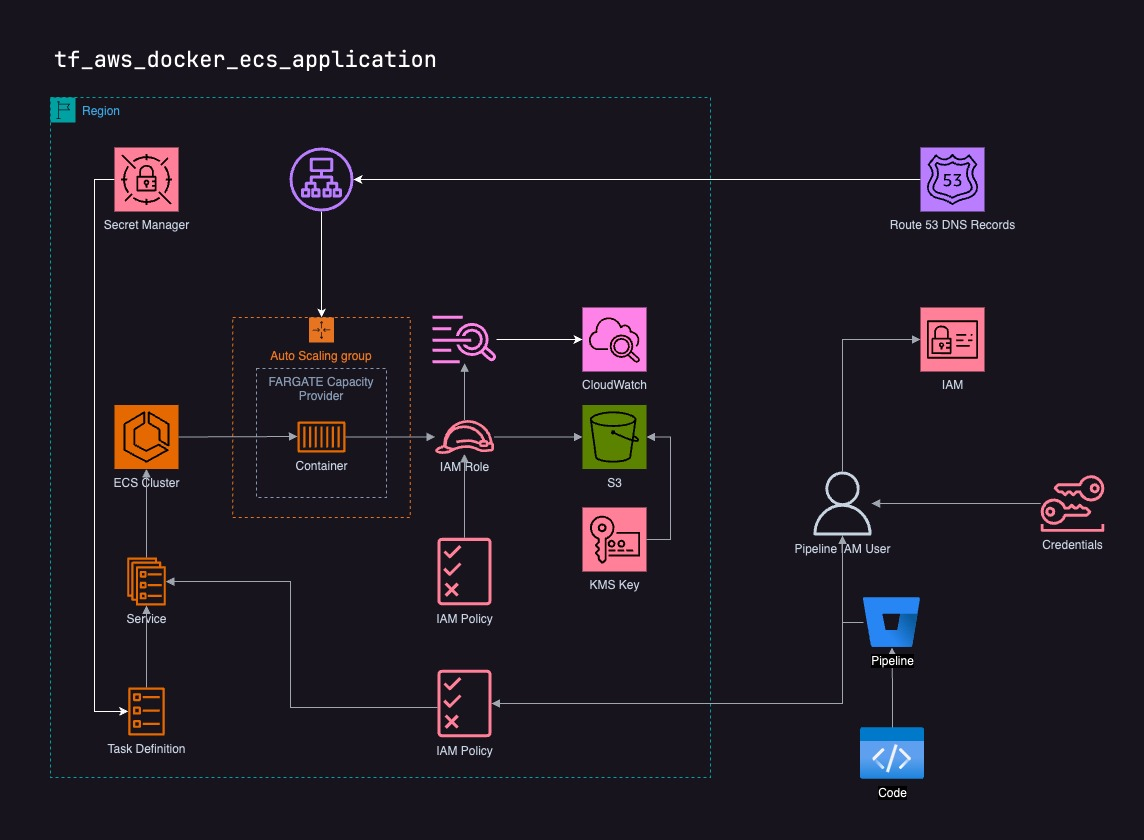
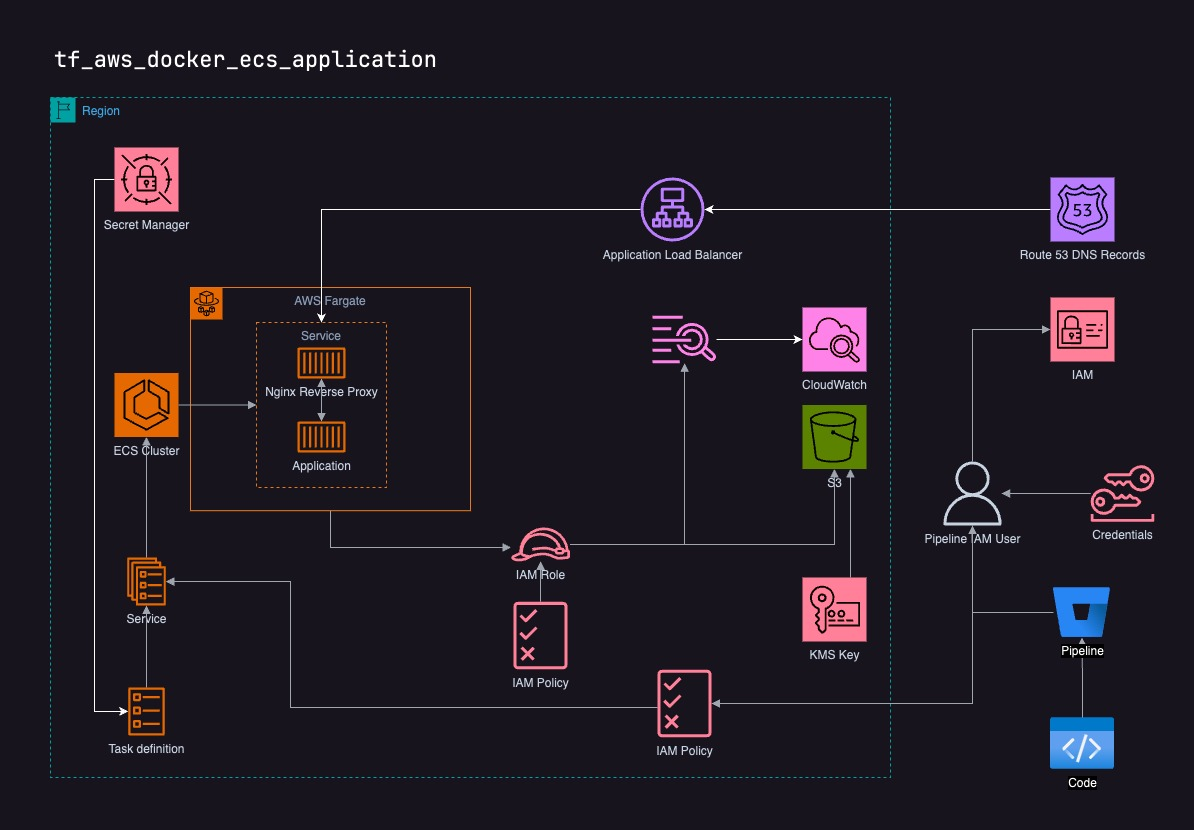
WIP on reverse proxy

diff --git a/nginx/index.html b/nginx/index.html
@@ -1,0 +1,1 @@
+Service is healthy

diff --git a/nginx/README.md b/nginx/README.md
@@ -1,0 +1,7 @@
+tf_aws_ecs_application_reverse_proxy
+====================================
+
+This nginx image is used to act as a reverse proxy as sidecar container on an AWS ECS application.
+
+# Requirements
+The environment variable `NGINX_PROXY_URL` must be set to the application URL and port in oder to get the reverse proxy running.
